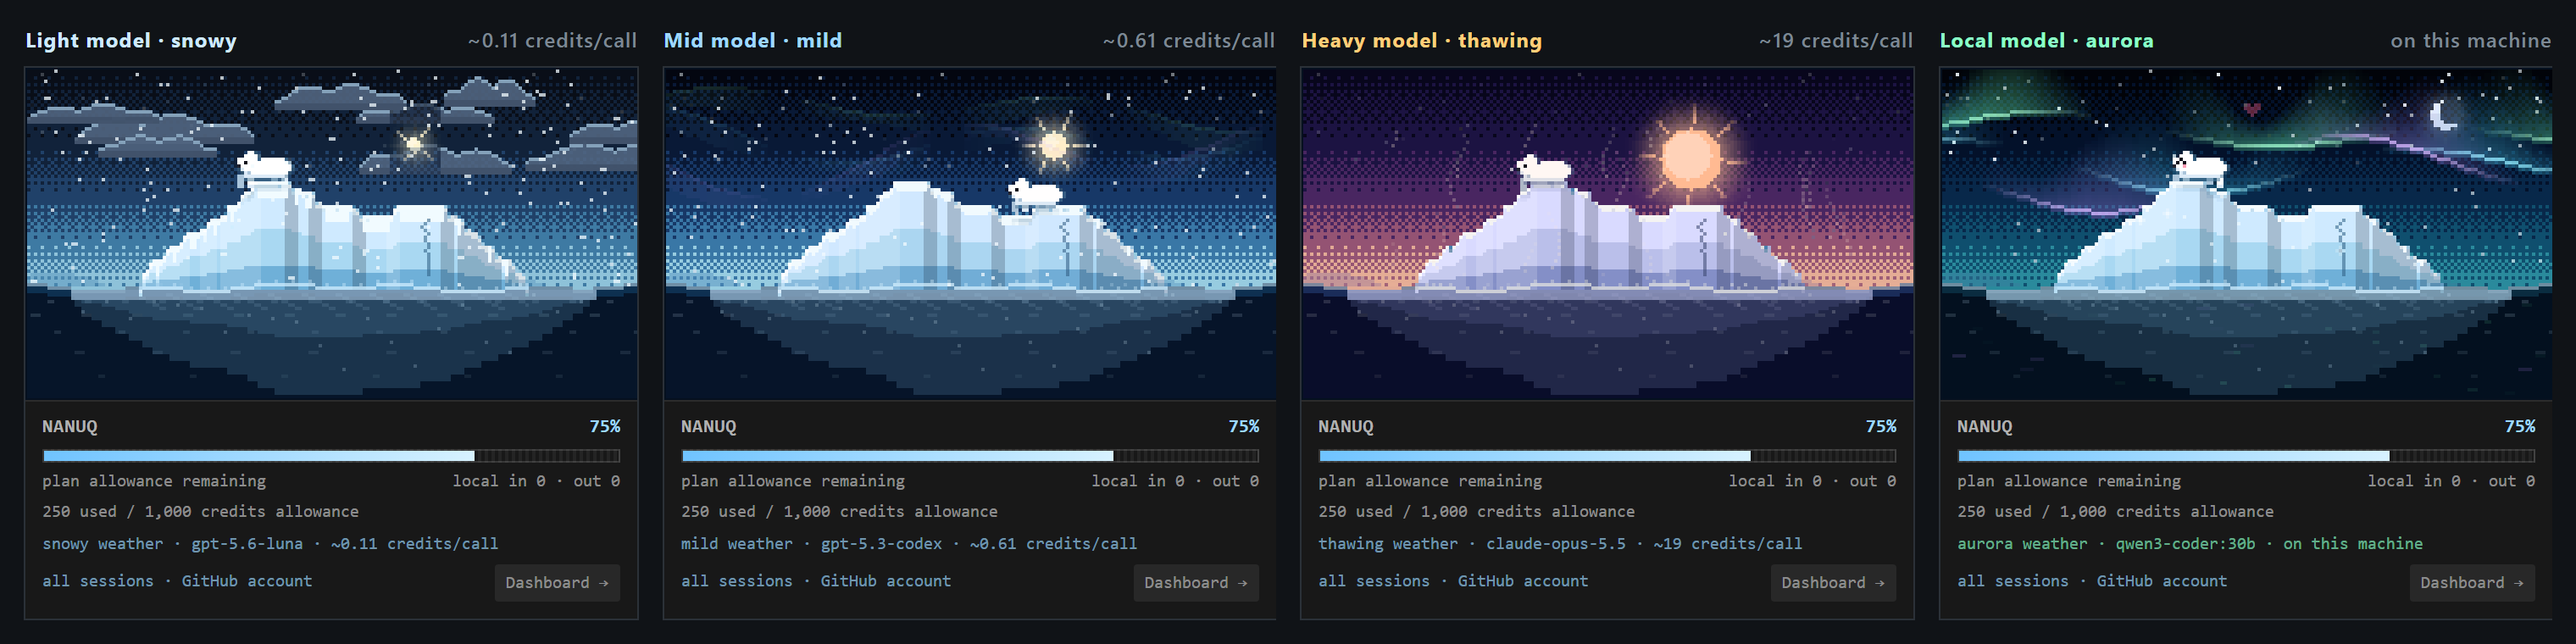
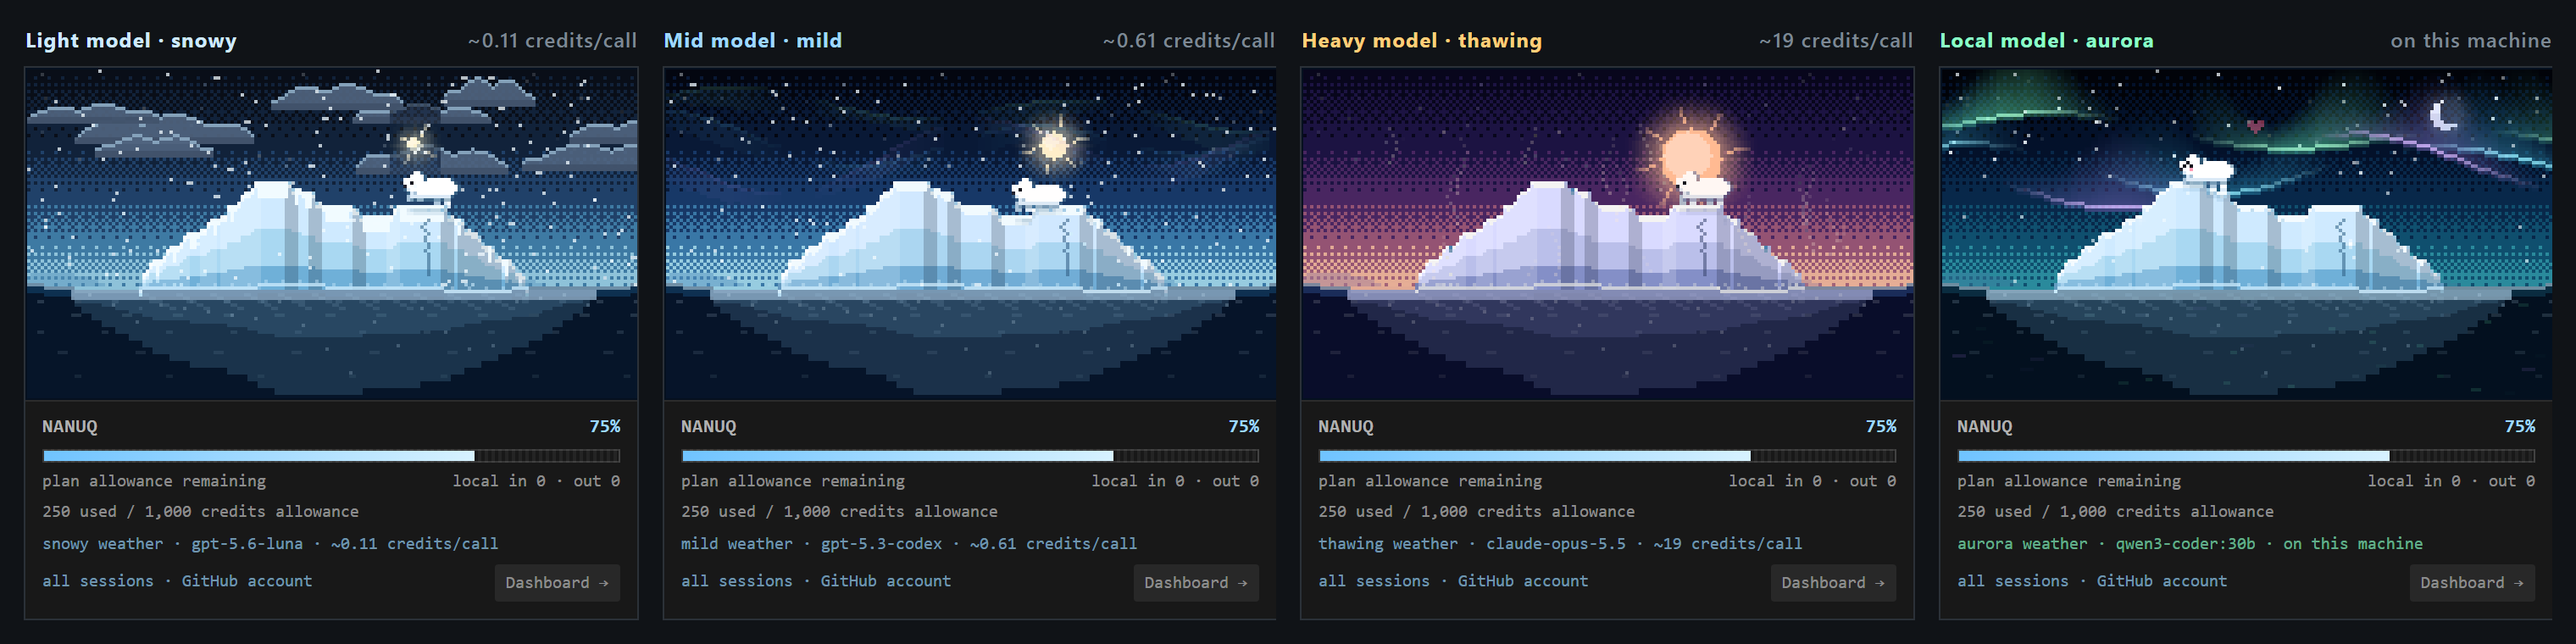
Address review: no local drips, clear local effects, light-theme green, mapped loopback
- Local scene spawns no meltwater, matching the documented behaviour.
- Leaving local mode clears queued hearts and snow spray (and the roll), so
  nothing lingers in another scene even with animation off.
- Light and high-contrast-light themes get a deeper HUD green with at least
  4.5:1 contrast at the row's opacity; dark themes keep the aurora green.
- Recognise IPv4-mapped loopback in the hex form URL parsing produces
  (::ffff:7f00:1), with regression tests through hostName normalisation.
- Regenerate the local-model media for the renderer change.

diff --git a/src/climate.ts b/src/climate.ts
@@ -98,20 +98,42 @@ function normalHost(host: string): string {
   return host.trim().toLowerCase().replace(/^\[(.*)\]$/, '$1').replace(/\.$/, '');
 }
 
-/** `::1` in any spelling, such as `0:0:0:0:0:0:0:1` or `0::1`. */
-function isIpv6Loopback(host: string): boolean {
-  if (!host.includes(':') || !/^[0-9a-f:]+$/.test(host)) {
-    return false;
+/** The eight 16-bit groups of an IPv6 address, which may end in dotted IPv4; undefined if malformed. */
+function ipv6Groups(host: string): number[] | undefined {
+  let h = host;
+  const dotted = /^(.*:)(\d{1,3})\.(\d{1,3})\.(\d{1,3})\.(\d{1,3})$/.exec(h);
+  if (dotted) {
+    const o = dotted.slice(2).map(Number);
+    if (o.some((octet) => octet > 255)) {
+      return undefined;
+    }
+    h = `${dotted[1]}${((o[0] << 8) | o[1]).toString(16)}:${((o[2] << 8) | o[3]).toString(16)}`;
   }
-  const halves = host.split('::');
+  if (!h.includes(':') || !/^[0-9a-f:]+$/.test(h)) {
+    return undefined;
+  }
+  const halves = h.split('::');
   const groups = (s: string) => (s ? s.split(':') : []);
   const head = groups(halves[0]);
   const tail = halves.length === 2 ? groups(halves[1]) : [];
   if (halves.length > 2 || (halves.length === 2 && head.length + tail.length > 7)) {
-    return false;
+    return undefined;
   }
   const all = halves.length === 2 ? [...head, ...new Array<string>(8 - head.length - tail.length).fill('0'), ...tail] : head;
-  return all.length === 8 && all.every((g, i) => g.length > 0 && g.length <= 4 && parseInt(g, 16) === (i === 7 ? 1 : 0));
+  return all.length === 8 && all.every((g) => g.length > 0 && g.length <= 4) ? all.map((g) => parseInt(g, 16)) : undefined;
+}
+
+/**
+ * `::1`, or 127.0.0.0/8 mapped into IPv6, in any spelling: `0::1`,
+ * `::ffff:127.0.0.1`, or `::ffff:7f00:1` as URL parsing serialises it.
+ */
+function isIpv6Loopback(host: string): boolean {
+  const g = ipv6Groups(host);
+  if (!g) {
+    return false;
+  }
+  const zeros = (n: number) => g.slice(0, n).every((group) => group === 0);
+  return (zeros(7) && g[7] === 1) || (zeros(5) && g[5] === 0xffff && g[6] >> 8 === 0x7f);
 }
 
 /** `localhost`, `*.localhost`, 127.0.0.0/8 (also IPv4-mapped) and `::1`: this machine. */
@@ -123,7 +145,7 @@ export function isLoopbackHost(host: string | undefined): boolean {
   if (h === 'localhost' || h.endsWith('.localhost')) {
     return true;
   }
-  const v4 = /^(?:::ffff:)?127\.(\d{1,3})\.(\d{1,3})\.(\d{1,3})$/.exec(h);
+  const v4 = /^127\.(\d{1,3})\.(\d{1,3})\.(\d{1,3})$/.exec(h);
   return v4 ? v4.slice(1).every((octet) => Number(octet) <= 255) : isIpv6Loopback(h);
 }
 

diff --git a/test/climate.test.js b/test/climate.test.js
@@ -8,7 +8,7 @@ const {
   CLIMATE_MIN_CREDIT_CALLS, CLIMATE_STALE_MS, CREDITS_PER_CALL_HIGH, CREDITS_PER_CALL_LOW,
   climateFor, contextLevel, creditWeight, effortLevel, isLoopbackHost, localEndpoint
 } = build('climate.js');
-const { digestSpans, usageSpan } = build('spanUsage.js');
+const { digestSpans, hostName, usageSpan } = build('spanUsage.js');
 const { TokenMeter } = build('tokenMeter.js');
 
 const now = Date.UTC(2026, 9, 20, 12);
@@ -158,6 +158,20 @@ it('recognises loopback endpoints in any spelling and only exactly listed local 
   assert.equal(localEndpoint('a.gpu-box.lan', listed), undefined, 'no suffix matching');
   assert.equal(localEndpoint('10.0.0.5', listed), undefined);
   assert.equal(localEndpoint('localhost', listed), 'loopback', 'loopback wins over the list');
+});
+
+it('recognises IPv4-mapped loopback in the hex form URL parsing produces', () => {
+  for (const host of ['::ffff:7f00:1', '::FFFF:7F01:203', '0:0:0:0:0:ffff:7f00:1', '0:0:0:0:0:ffff:127.0.0.1', '[::ffff:7fff:ffff]']) {
+    assert.equal(isLoopbackHost(host), true, host);
+  }
+  for (const host of ['::ffff:8000:1', '::ffff:c0a8:114', '::fffe:7f00:1', '1::ffff:7f00:1', '::7f00:1',
+    '::ffff:127.0.0.256', '::ffff:7f00:1:2', '::ffff:7f00']) {
+    assert.equal(isLoopbackHost(host), false, host);
+  }
+  const host = hostName('http://[::ffff:127.0.0.1]:11434/v1');
+  assert.equal(host, '::ffff:7f00:1', 'URL parsing serialises the mapped address in hex');
+  assert.equal(localEndpoint(host), 'loopback');
+  assert.equal(climateFor(call('q', { host }), [], now).band, 'aurora');
 });
 
 it('gives a fresh call to a local endpoint the aurora band without needing reported credits', () => {

diff --git a/test/habitat.test.js b/test/habitat.test.js
@@ -96,6 +96,32 @@ it('brings a clear aurora night and a happy bear for a local model, without touc
   assert.equal(shrinking.els.pct.textContent, '0%', 'no ice is still no ice');
 });
 
+/** Pixels drawn in the hearts' pink. */
+function heartPixels(scene) {
+  const { data } = scene.canvas;
+  let n = 0;
+  for (let i = 0; i < data.length; i += 4) {
+    if (data[i] > 220 && data[i + 1] < 130 && data[i + 2] > 100 && data[i + 2] < 190) n++;
+  }
+  return n;
+}
+
+it('clears hearts and the roll when the climate stops being local, even with animation off', () => {
+  const local = climateFor({ model: 'qwen3-coder:30b', host: 'localhost', atMs: Date.now() - 60_000, sessionId: 's' }, []);
+  const scene = createScene(path.resolve(__dirname, '..'), 480, 300, { seed: 1 });
+  const state = { health: 1, input: 0, output: 0, total: 0, budget: 0, basis: 'demo', source: 'otel',
+    bearName: 'Nanuq', animate: true, pixelScale: 2 };
+  scene.step(16);
+  scene.setState({ ...state, climate: local });
+  let steps = 0;
+  while (heartPixels(scene) === 0 && steps++ < 300) scene.step(33);
+  assert.ok(heartPixels(scene) > 0, 'a heart is on screen');
+
+  scene.setState({ ...state, animate: false, climate: undefined });
+  for (let i = 0; i < 5; i++) scene.step(33);
+  assert.equal(heartPixels(scene), 0, 'no local-only effect lingers in the neutral scene');
+});
+
 it('returns to the neutral scene when the climate goes stale, is disabled or the demo runs', () => {
   const m = new TokenMeter({ get: () => undefined, update: async () => {} });
   const scene = createScene(path.resolve(__dirname, '..'), 330, 300);

diff --git a/media/main.js b/media/main.js
@@ -144,7 +144,11 @@
     if (same) return;
     const reseed = next.on !== climate.on || next.local !== climate.local;
     Object.assign(climate, next);
-    if (!climate.local && bear.pose === 'roll') bear.pose = 'sit';
+    if (!climate.local) {
+      // Local-only effects never linger in another scene, even with animation off.
+      if (bear.pose === 'roll') bear.pose = 'sit';
+      motes.length = 0;
+    }
     palKey = -1;
     dirty = true;
     if (reseed) seedFlakes();
@@ -1118,7 +1122,7 @@
 
     // Melt water dripping off the flanks.
     const drip = climateDrip();
-    const dripChance = climate.local ? (1 - h) * 0.1 : climate.on ? Math.max(1 - h, 0.15) * drip : 1 - h;
+    const dripChance = climate.local ? 0 : climate.on ? Math.max(1 - h, 0.15) * drip : 1 - h;
     if ((h < 0.92 || drip > 1.2) && Math.random() < dripChance * dt * 26) {
       const side = Math.random() < 0.5 ? -1 : 1;
       const x = view.cx + side * Math.round(bergHalfW * (0.5 + Math.random() * 0.5));

diff --git a/media/style.css b/media/style.css
@@ -101,6 +101,12 @@ body {
   color: #8cffc8;
 }
 
+/* A deep aurora green that keeps 4.5:1 contrast on light sidebars, even at the row's opacity. */
+body.vscode-light .climate[data-local='true'],
+body.vscode-high-contrast-light .climate[data-local='true'] {
+  color: #00301a;
+}
+
 .name {
   font-weight: 700;
   letter-spacing: 0.5px;
